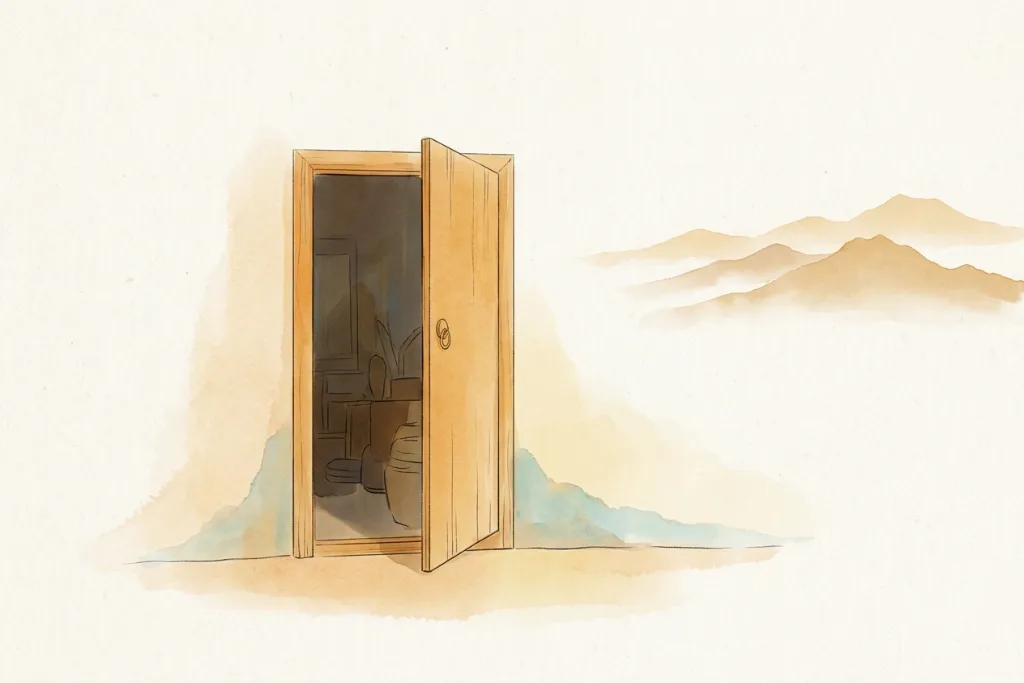
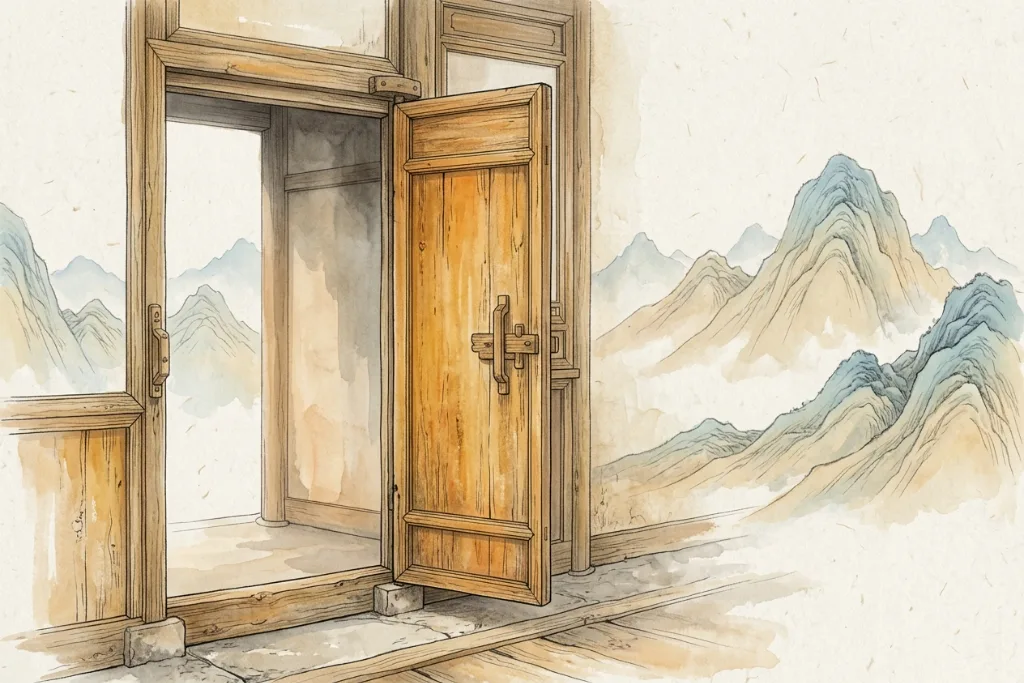
素問:補齊最後 3 幅,81/81 篇全數有篇首圖
- 新增 suwen-70;重生 suwen-06/07(舊 prompt 留白過多,17KB→88KB、50KB→127KB)
- 全部 1024×683 準確 3:2 WebP,平均約 129KB,全站圖片共 12MB
- CLAUDE.md:新增「Gemini Canvas 生圖工作流」(免費層生圖額度為 0、Pro 訂閱不覆蓋 API、
  1MB 剪貼簿上限每批 4 幅、截斷救援法);加「反留白」慣例;進度補批次 11

diff --git a/CLAUDE.md b/CLAUDE.md
@@ -49,7 +49,7 @@ src/
 public/images/
   home-hero.webp          首頁橫幅(16:9)
   foundations/            基礎理論:<id>.webp(3:2 banner)+<id>-thumb.webp(1:1 縮圖)
-  classics/               素問:suwen.webp(書目頁)+<chapter-id>.webp(篇首,精選 18 篇)
+  classics/               素問:suwen.webp(書目頁)+<chapter-id>.webp(篇首,81 篇全數有圖)
 opus-output/              Opus 翻譯輸出 JSON(已套用網頁;18 篇 A 審校版留檔未採用)
 ```
 
@@ -85,7 +85,9 @@ speak(id,text) → ①Poe 高質朗讀(經 /api/tts) → ②失敗即 markPoeDeg
   頁面統一 `w-full max-w-lg mx-auto rounded-lg mb-5`，擺喺標題**之上**（基礎理論、素問書目頁、素問篇首一致）。
   生成見下「POE 生圖」；壓縮腳本 `scratchpad/optimize_images.cjs`。
 - **精選 18 篇**：`featured: true`（批一 8＋批二 10）＝ 建議入門先讀，目錄與章節頁以琥珀細標「基礎」標示；
-  精選名單改動只需改 JSON，template 唔寫死。篇首圖亦只做呢 18 篇。
+  精選名單改動只需改 JSON，template 唔寫死。（篇首圖現時 81 篇全有，唔再只做呢 18 篇。）
+- **反留白**：生圖 prompt 必須有「主體必須佔滿整個畫面、由邊到邊，絕對不要出現大片空白區域」。
+  冇呢句會出到大幅留白嘅疏圖（實測 17KB vs 平均 129KB，擺埋一齊好突兀）。呢句係品質分水嶺。
 - **Tailwind 色系**：主色 amber-800/900、淺底 amber-50；中性 gray-*；卡片
   `rounded-lg border border-gray-200 hover:border-amber-300 hover:bg-amber-50`；容器 `max-w-3xl mx-auto px-4`；分段 `mb-8`。
 - **導覽次序**：路線圖(首頁) → 基礎 → 經典 → 辭典 → 資源 → 進度（先明理、後讀經、隨時查）。
@@ -108,6 +110,21 @@ speak(id,text) → ①Poe 高質朗讀(經 /api/tts) → ②失敗即 markPoeDeg
   下載後即以 sharp 縮尺寸＋轉 WebP 先入庫；已存在檔案自動 skip（斷咗可續跑）。
 - **點數**：翻譯／生圖都燒點。跑爆會回 `insufficient_quota`；腳本見此即乾淨停低（唔重試白燒），
   已生成部分保住，補返點數後再跑會跳過已完成項。
+
+## Gemini Canvas 生圖工作流（唔使 API key，用戶 Pro 訂閱）
+
+素問 81 篇篇首圖有 61 幅係行呢條路，值得記低（將來補靈樞等新書可重用）。
+
+- **點解唔用 Gemini API**：實測 AI Studio 免費層**生圖額度係 0**（文字有額度，圖一律 429
+  `RESOURCE_EXHAUSTED`，`location:global` 唔關地區事，等幾耐都冇用）。要用 API 必須開 billing。
+  ⚠ **Gemini Pro 訂閱只覆蓋 gemini.google.com（含 Canvas），唔覆蓋 API** —— 兩者唔互通。
+- **流程**：用戶喺 Canvas 貼一個 prompt（要求寫一個 App：逐幅生成→縮 1024px→
+  `toDataURL('image/webp',0.82)`→「複製 Base64」掣＋textarea 後備），逐批複製成文字檔傳入本 session，
+  以 `scratchpad/apply_b64.cjs` 解碼入庫（**base64 全程腳本處理，唔經對話 context**）。
+- **格式**：`{"suwen-13":"<純 base64,冇 data: 前綴>", ...}`；apply 腳本會驗 3:2、已係 1024px WebP 就直接入庫免二次壓縮。
+- ⚠ **1MB 剪貼簿上限**：每批 5 幅（~1MB）會被硬切斷，JSON 尾段唔完整。**每批 4 幅**先穩陣。
+  萬一被切，apply 前用 regex 抽完整嘅 `"id":"base64"` 對救返（實測救到 4/5 幅），淨低嗰幅重生即可。
+- **prompt 檔**留檔喺 scratchpad `gemini/gemini-canvas-prompt.md`；63 篇逐篇畫面內容喺 `scratchpad/scenes.json`。
 
 ## Git 工作流
 
@@ -151,6 +168,10 @@ speak(id,text) → ①Poe 高質朗讀(經 /api/tts) → ②失敗即 markPoeDeg
   ⚠ **18 篇 A 審校改善版用戶決定唔採用**,保留原有白話;檔案留喺 `opus-output/` 備查。
 - **批次 10 完成**（圖片）:精選 18 篇加篇首 3:2 意境圖 + 素問書目頁 1 幅(共 19 幅,經 POE nano-banana-pro);
   目錄/章節頁加「基礎」細標(featured);全站圖片轉 WebP 並按版面縮尺寸(25.2MB → 0.77MB,減 97%)。
-- **十批全部完成**。日後方向:靈樞/傷寒論選讀、臟腑辨證加入基礎理論、辭典隨篇章增補、
-  其餘 63 篇篇首圖(如需)、暗黑模式/PWA(用戶未選)
+- **批次 11 完成**（全書配圖）:其餘 63 篇篇首圖補齊,**81/81 篇全數有圖**。
+  頭 2 幅(6/7)用舊 prompt 出咗大幅留白,加「反留白」句後重生,由 17KB→88KB;
+  61 幅經 Gemini Canvas(用戶 Pro 訂閱)生成、逐批複製 base64 傳入,見上「Gemini Canvas 生圖工作流」。
+  全部 1024×683 準確 3:2 WebP,55–215KB,平均約 129KB。
+- **十一批全部完成**。日後方向:靈樞/傷寒論選讀、臟腑辨證加入基礎理論、辭典隨篇章增補、
+  暗黑模式/PWA(用戶未選)
 - 白話/難字註全部 `contentStatus:'draft'`,人審後改 reviewed;UI 不顯示標示
